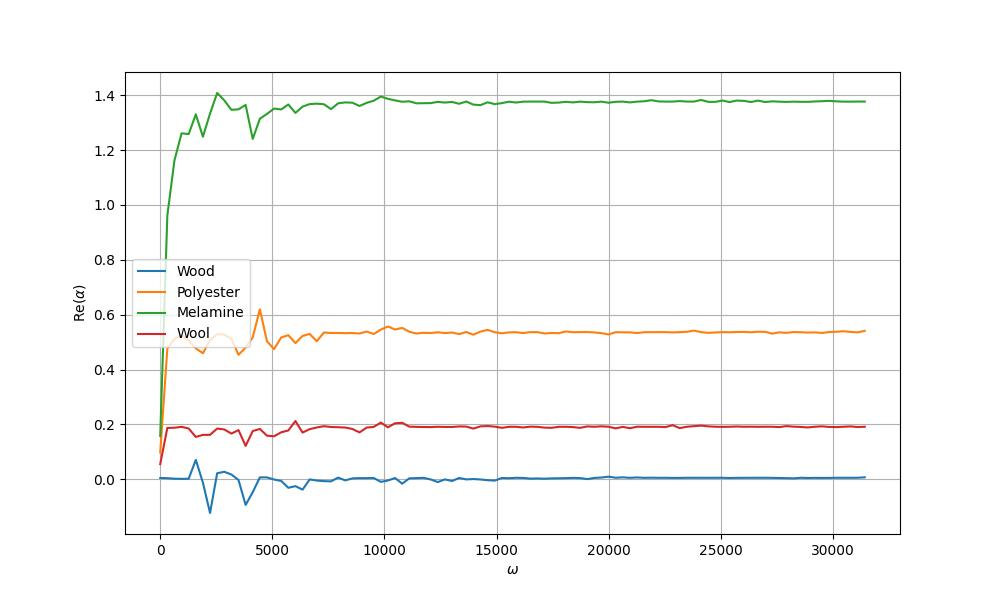
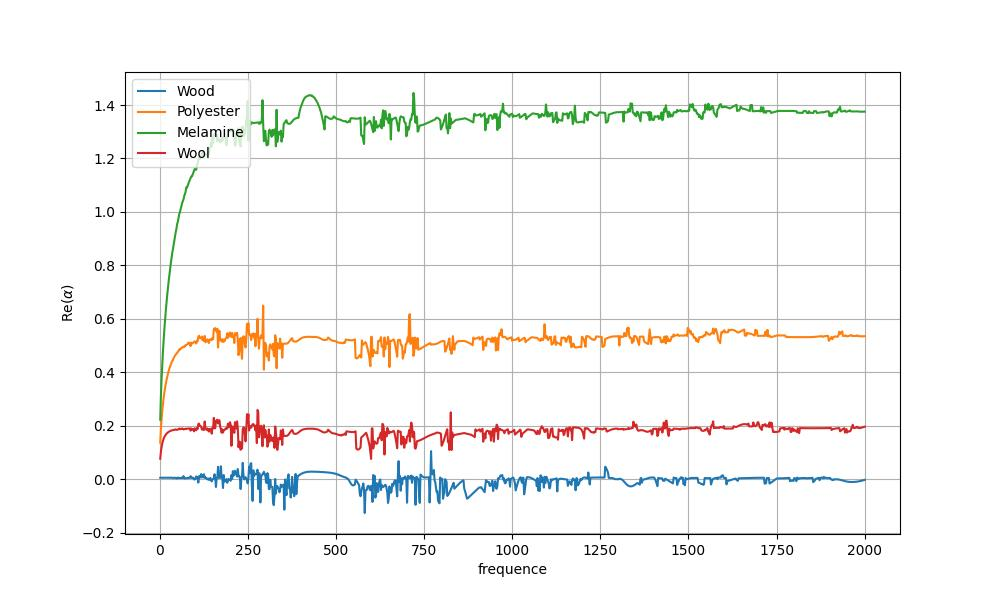
Petite modif de compute_alpha pour qu'il prenne le nom d'un matériau en argument + graphes tracés sur l'intervalle d'intérêt

diff --git a/compute_alpha.py b/compute_alpha.py
@@ -29,12 +29,15 @@ class Memoize:
         return self.memo[args]
 
 
-def compute_alpha(omega, material_properties):
+def compute_alpha(omega, material_name):
     """
     .. warning: $w = 2 \pi f$
     w is called circular frequency
     f is called frequency
+    :param material:
     """
+    
+    material_properties = materials[material_name]
     # Use the material properties passed in instead of hardcoded values
     phi = material_properties["phi"]
     gamma_p = material_properties["gamma_p"]
@@ -358,8 +361,9 @@ def run():
 
     # Calculate alpha for each material
     colors = ["blue", "red", "green", "purple"]
-    numb_omega = 100  # Increased for smoother curves
-    omegas = numpy.linspace(2.0 * numpy.pi, numpy.pi * 10000, num=numb_omega)
+    numb_frequence = 1000  # Increased for smoother curves
+    frequences = numpy.linspace(2.0, 2000, num=numb_frequence)
+    omegas = 2 * numpy.pi * frequences
 
     # Create figures for real and imaginary parts
     fig_real = matplotlib.pyplot.figure(figsize=(10, 6))
@@ -376,18 +380,18 @@ def run():
         # Plot real part
         matplotlib.pyplot.figure(fig_real.number)
         matplotlib.pyplot.plot(
-            numpy.real(omegas), numpy.real(alphas), label=material_name
+            numpy.real(frequences), numpy.real(alphas), label=material_name
         )
 
         # Plot imaginary part
         matplotlib.pyplot.figure(fig_imag.number)
         matplotlib.pyplot.plot(
-            numpy.real(omegas), numpy.imag(alphas), label=material_name
+            numpy.real(frequences), numpy.imag(alphas), label=material_name
         )
 
     # Finalize real part plot
     matplotlib.pyplot.figure(fig_real.number)
-    matplotlib.pyplot.xlabel(r"$\omega$")
+    matplotlib.pyplot.xlabel(r"frequence")
     matplotlib.pyplot.ylabel(r"$\operatorname{Re}(\alpha)$")
     matplotlib.pyplot.legend()
     matplotlib.pyplot.grid(True)
@@ -395,7 +399,7 @@ def run():
 
     # Finalize imaginary part plot
     matplotlib.pyplot.figure(fig_imag.number)
-    matplotlib.pyplot.xlabel(r"$\omega$")
+    matplotlib.pyplot.xlabel(r"frequence")
     matplotlib.pyplot.ylabel(r"$\operatorname{Im}(\alpha)$")
     matplotlib.pyplot.legend()
     matplotlib.pyplot.grid(True)
@@ -408,3 +412,39 @@ def run():
 if __name__ == "__main__":
     run()
     print("End.")
+
+
+materials = {
+        "Wood": {
+            "phi": 0.5,
+            "gamma_p": 7.0 / 5.0,  # Keeping this constant for all materials
+            "sigma": 12500.0,
+            "rho_0": 600.0,
+            "alpha_h": 1.35,
+            "c_0": 360.0,
+        },
+        "Polyester": {
+            "phi": 0.9,
+            "gamma_p": 7.0 / 5.0,
+            "sigma": 20000.0,
+            "rho_0": 40.0,
+            "alpha_h": 1.2,
+            "c_0": 340.0,
+        },
+        "Melamine": {
+            "phi": 0.95,
+            "gamma_p": 7.0 / 5.0,
+            "sigma": 13000.0,
+            "rho_0": 10.0,
+            "alpha_h": 1.3,
+            "c_0": 340.0,
+        },
+        "Wool": {
+            "phi": 0.9,
+            "gamma_p": 7.0 / 5.0,
+            "sigma": 22500.0,
+            "rho_0": 100.0,
+            "alpha_h": 1.4,
+            "c_0": 340.0,
+        },
+    }
